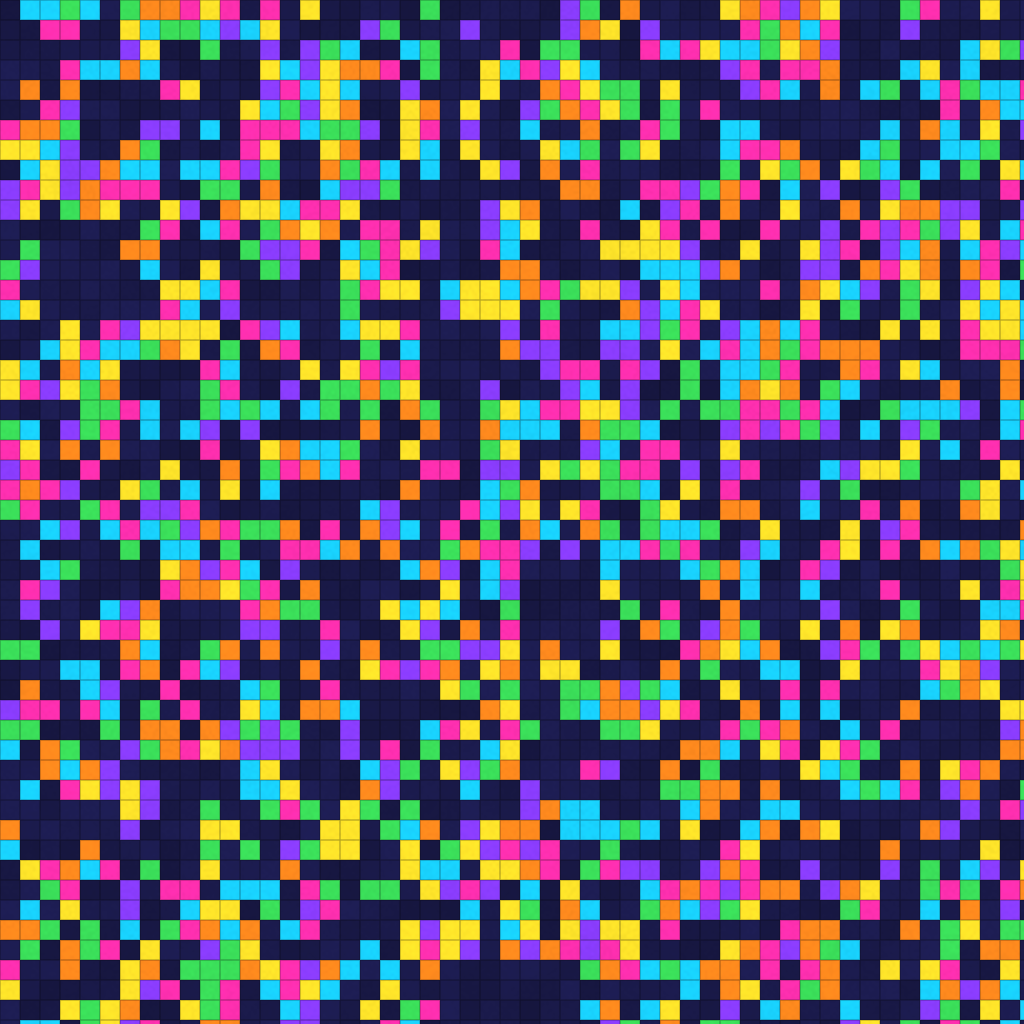
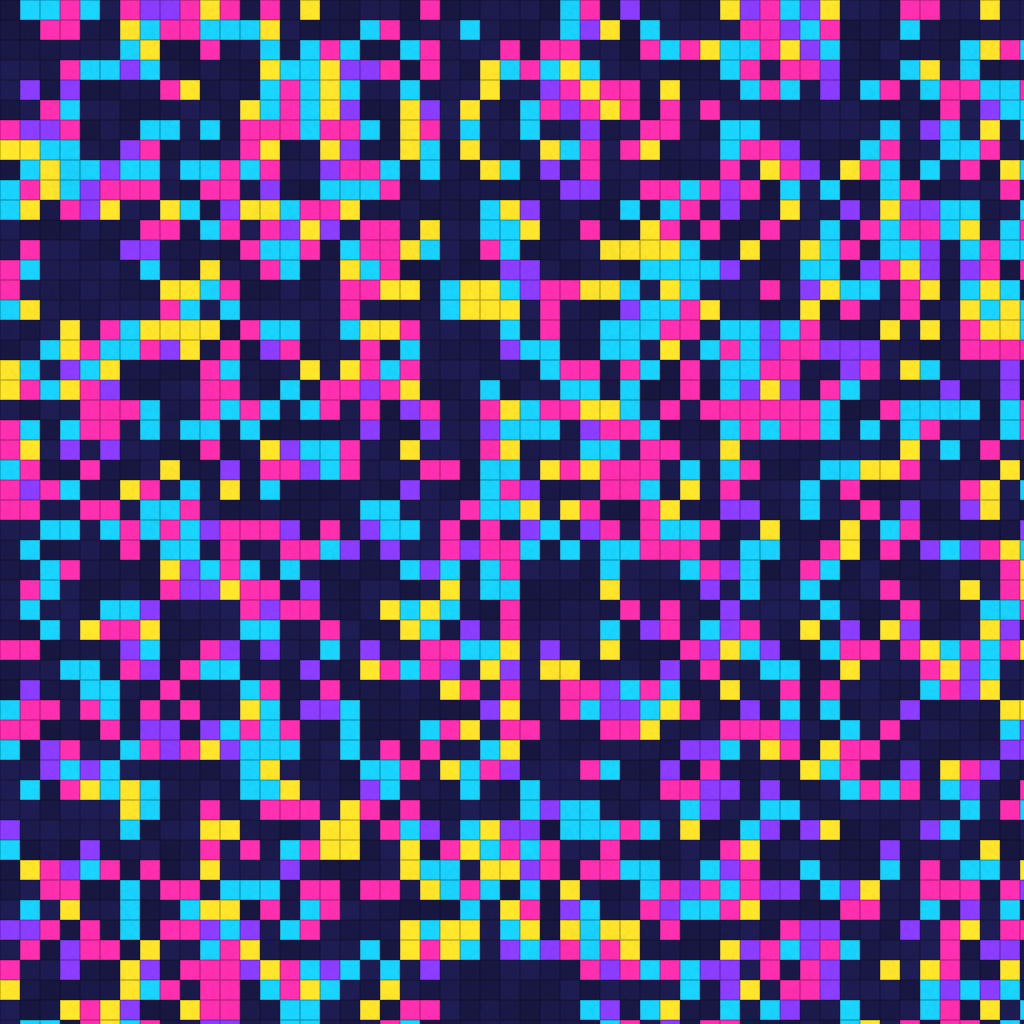
8-Bit third pass is in: half bright, half purple, pink cyan yellow violet (Alan's pick)
Main: 525841961edf4aba01e22610293704017cb50bae

diff --git a/tools/art/skin_sheets.py b/tools/art/skin_sheets.py
@@ -62,10 +62,11 @@ def racing_stripe():
     side = pick(crest, red, pick(Y > 0.97, cream, red))                       # no line at the ridge's foot: one unbroken stripe a side
     return pick(SIDE, side, flat)
 
-def eight_bit(cover=0.5, colours=("#FF2FB0", "#19D3FF", "#FFE52A", "#FF8A1E", "#8B3DFF", "#3BE05A"), base="#1A1A4A"):
+def eight_bit(cover=0.5, colours=("#FF2FB0", "#19D3FF", "#FFE52A", "#8B3DFF", "#19D3FF", "#FF2FB0"), base="#1A1A4A"):
     """Chunky pixels: `cover` of the blocks bright (small same-colour patches), the rest the dark purple-blue base,
     spread evenly so every part shows both (Alan 2026-11-16: the first pass, 39% in clumps, was mostly purple with none
-    on top of the nose; the second, 75% and no purple, was "too much ... like rainbow")."""
+    on top of the nose; the second, 75% and no purple, was "too much ... like rainbow"; he took the third: half and
+    half, in pink, cyan, yellow and violet only, no orange or green)."""
     B = 20; gi, gj = (px // B).astype(int), (py // B).astype(int); g = N // B + 2
     rng = np.random.default_rng(8)
     def field(cell):                                                         # blotchy random field per block
@@ -80,12 +81,13 @@ def eight_bit(cover=0.5, colours=("#FF2FB0", "#19D3FF", "#FFE52A", "#FF8A1E", "#
         win = np.lib.stride_tricks.sliding_window_view(mask, (5, 5))
         return [(i, j, p) for p in (S, S[:, ::-1]) for i, j in zip(*np.nonzero((win == p).sum((2, 3)) >= 21))]
     for _ in range(200):
-        hits = [("on", h) for h in near(on)] + [("off", h) for h in near(~on)] + [(k, h) for k in range(6) for h in near(on & (hue == k))]
+        same = np.array([colours.index(colours[k % len(colours)]) for k in range(6)])[hue]   # blocks of one colour, whatever their index
+        hits = [("on", h) for h in near(on)] + [("off", h) for h in near(~on)] + [(k, h) for k in set(same.flat) for h in near(on & (same == k))]
         if not hits: break
         for kind, (i, j, p) in hits:
             if kind == "on": on[i:i + 5, j:j + 5] |= ~p                      # fill the gaps round a bright cross
             elif kind == "off": on[i:i + 5, j:j + 5] |= p                    # light up a dark cross
-            else: hue[i:i + 5, j:j + 5] = np.where(p & (rng.random((5, 5)) < 0.5), (kind + 1) % 6, hue[i:i + 5, j:j + 5])
+            else: hue[i:i + 5, j:j + 5] = np.where(p & (rng.random((5, 5)) < 0.5), (kind + 1) % len(set(colours)), hue[i:i + 5, j:j + 5])
     assert not hits, "8-Bit: a block shape too close to a hooked cross is left"
     pal = np.array([rgb(colours[k % len(colours)]) for k in range(6)])
     cell = np.where(on[..., None], pal[hue], rgb(base) * (0.85 + 0.3 * rng.random((g, g, 1))))
@@ -135,9 +137,7 @@ def jungle_camo():
     col = pick(a > 0.54, rgb("#2C6B32"), col); col = pick(b > 0.6, rgb("#6E4B2C"), col)
     return pick(c > 0.68, rgb("#1C2B1E"), col)
 
-def eight_bit_b(): return eight_bit(colours=("#FF2FB0", "#19D3FF", "#FFE52A", "#8B3DFF", "#19D3FF", "#FF2FB0"))   # option B: a tighter arcade set, no orange or green
-
-SKINS = dict(eight_bit_b=eight_bit_b, carbon_fiber=carbon_fiber, racing_stripe=racing_stripe, eight_bit=eight_bit, neon_grid=neon_grid,
+SKINS = dict(carbon_fiber=carbon_fiber, racing_stripe=racing_stripe, eight_bit=eight_bit, neon_grid=neon_grid,
              flame_decals=flame_decals, tie_dye=tie_dye, jungle_camo=jungle_camo)
 if __name__ == "__main__":
     for name in sys.argv[1:] or SKINS: finish(SKINS[name](), name)
